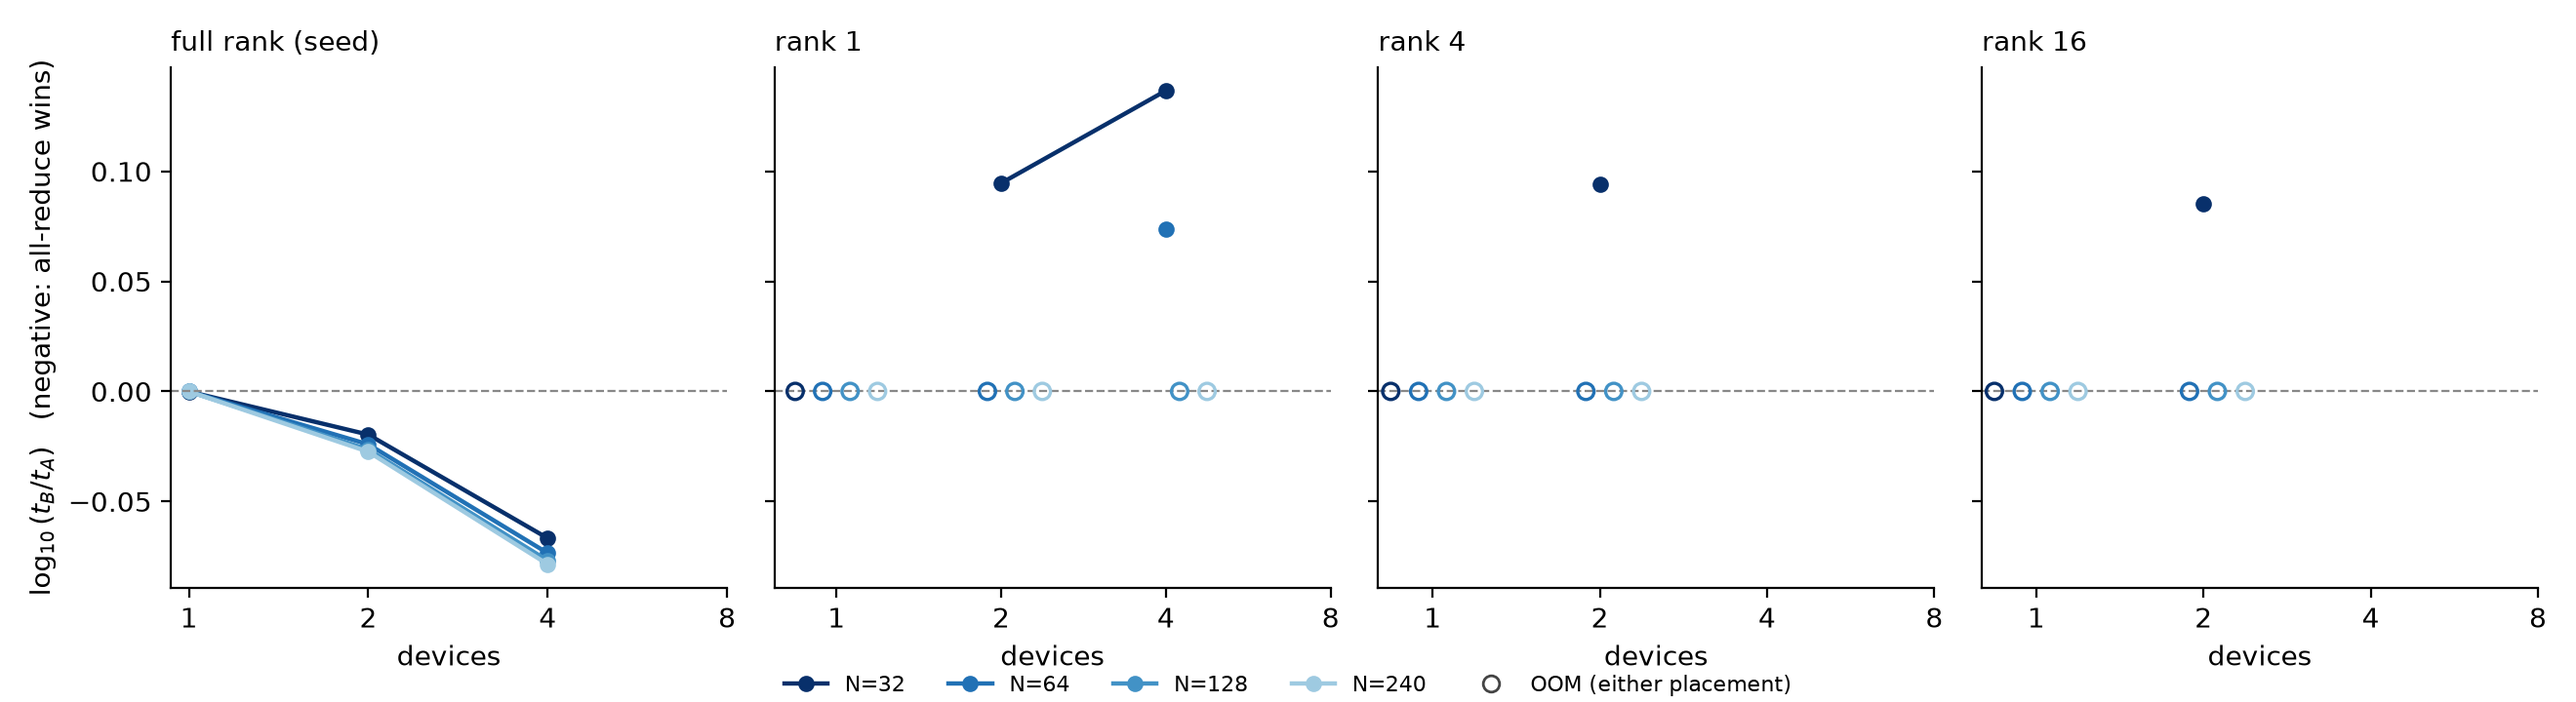
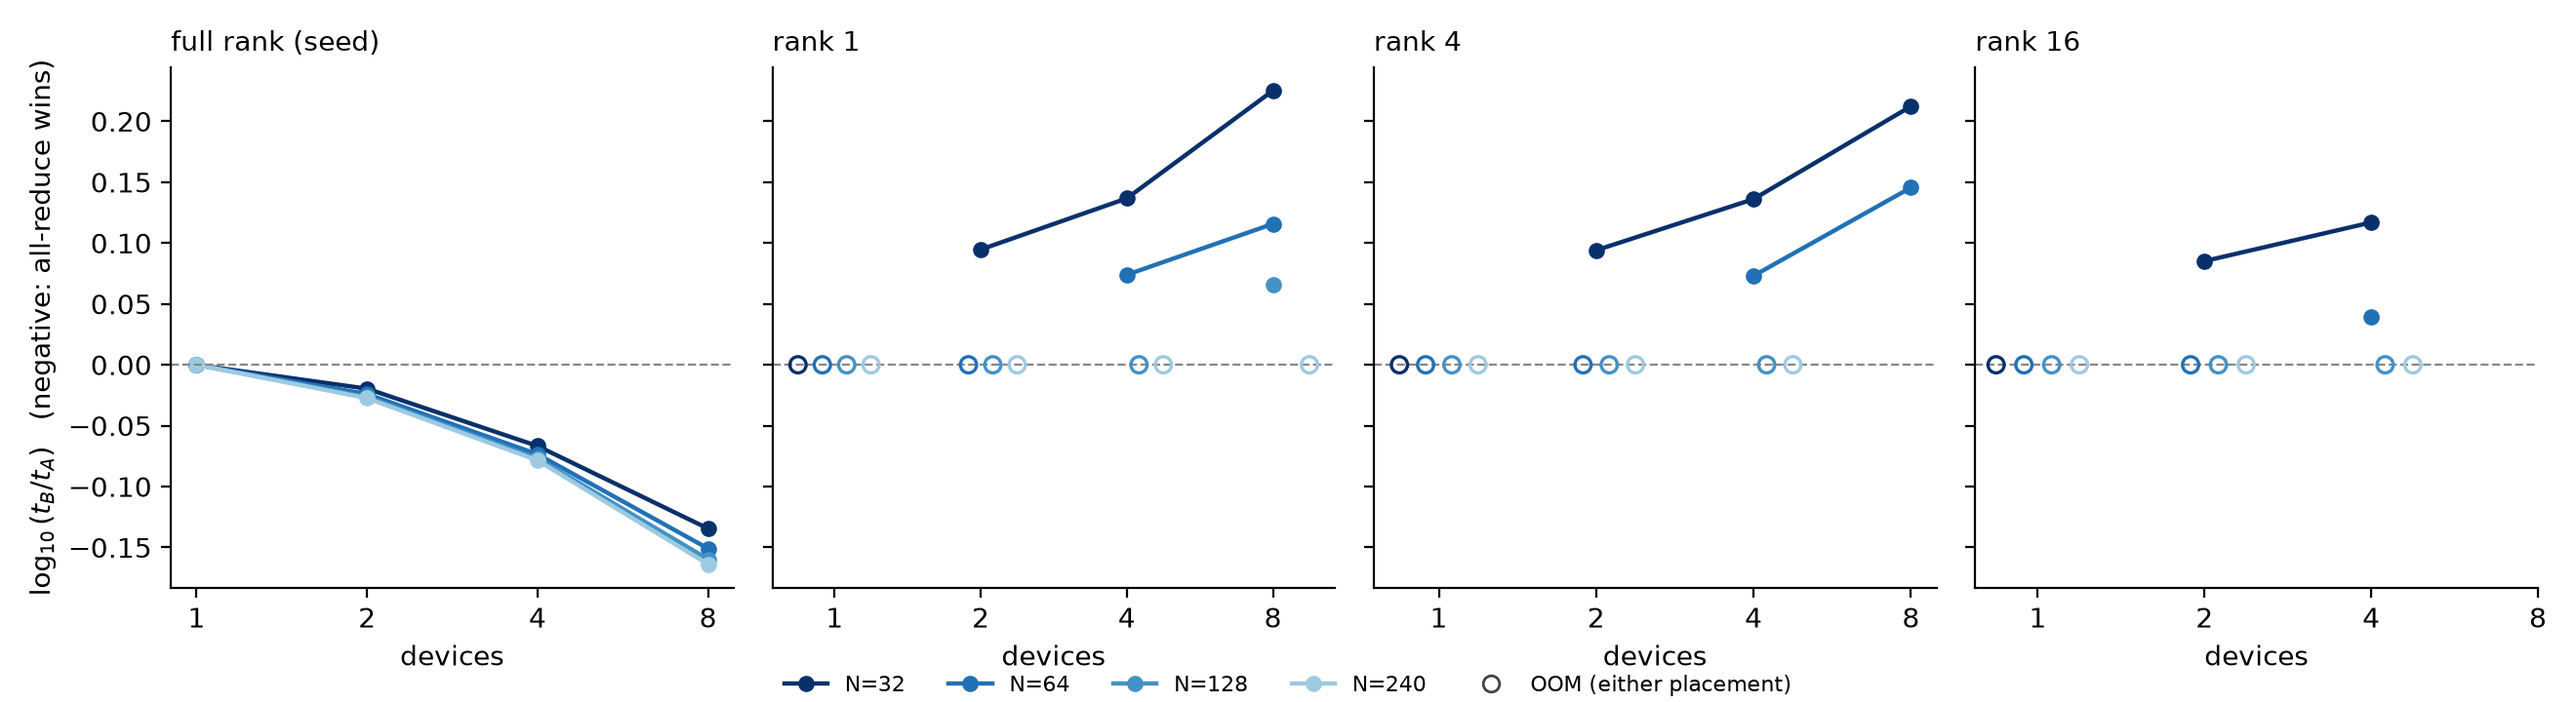
flag the unmatched evaluation chunk in the E13 ratio
eval_chunk reaches mirrored_seed and is ignored by the low-rank arms, which
batch their whole population. Part of the 41% is that setting rather than the
perturbation scheme. Numbers unchanged; the claim is now scoped to what was
measured, and the rerun that would separate them is named.

diff --git a/paper/sections/07-end-to-end.tex b/paper/sections/07-end-to-end.tex
@@ -220,7 +220,16 @@ across seeds; the ranges do not overlap here, but the evaluation grid is
 coarse (every 50 updates) and $n{=}3$, so the per-update ratio remains the
 clean claim. This is where the systems and quality halves meet: the cheap
 perturbation uses two fifths less time per update, while the experiment
-resolves no additional sample requirement.
+resolves no additional sample requirement. One caveat on what that
+$1.69\times$ contains. The two arms do not evaluate their populations the
+same way: the full-rank arm regenerates and scores members in chunks of
+five, so it reads the weights once per chunk, while the low-rank arm scores
+its whole population in one batch and reads them once, sharing the base
+multiply across members. That batching is what makes the low-rank path fast
+and is not separable from it, but it is an evaluation setting rather than a
+property of the perturbation, and only the regenerating path exposes it. The
+ratio is therefore between the two paths as this library runs them, not
+between the two perturbation schemes with everything else held equal.
 
 \paragraph{GRPO context.} The GRPO arm \citep{deepseekmath2024} uses the
 published settings of \citet{qiu2025}, without tuning. Its variance across

diff --git a/experiments/countdown/results/e13-a100-2026-08-22-clean/README.md b/experiments/countdown/results/e13-a100-2026-08-22-clean/README.md
@@ -33,6 +33,18 @@ Quality reproduces inside seed noise.
 Full rank and ranks 4 and 16 are 4-5% off the 08-17 campaign, which is host drift (that
 campaign ran every arm on one pod; this one used several) plus jax 0.11.0 to 0.11.1.
 
+**The arms do not evaluate their populations the same way, and the ratio contains that.**
+`pilot.yaml` sets `eval_chunk: 5`, which reaches `mirrored_seed` (built as
+`SeedRegenerated(chunk=5)`, so it scores five members per scan step and reads the weights
+once per step) and is silently ignored by the three low-rank arms, since `run_es.py` builds
+them as `Mirrored(LowRank(r=...))` and never reads the config. They score the whole
+population in one vmap and read the weights once, which is where their speed comes from:
+the base weight is unbatched under vmap so members share one GEMM. So the 41% is between
+the two paths as the library runs them, not between the perturbation schemes with the
+evaluation held equal. See `../../results-e17b-memory/README.md`, which found the same
+asymmetry behind E17's memory column. A matched-chunk rerun (the seed arm at chunk 15) is
+the experiment that would separate the two, and has not been run.
+
 **The rank-1 arms were measured twice.** Run first at 8d06d64 they came out 24% slower
 than 08-17 (2.98 and 2.97 s), which is a671dc6: it pads the r=1 factors to a rank-2 dot
 so the TPU keeps them fused (rank 1 OOMed cells rank 4 ran,
